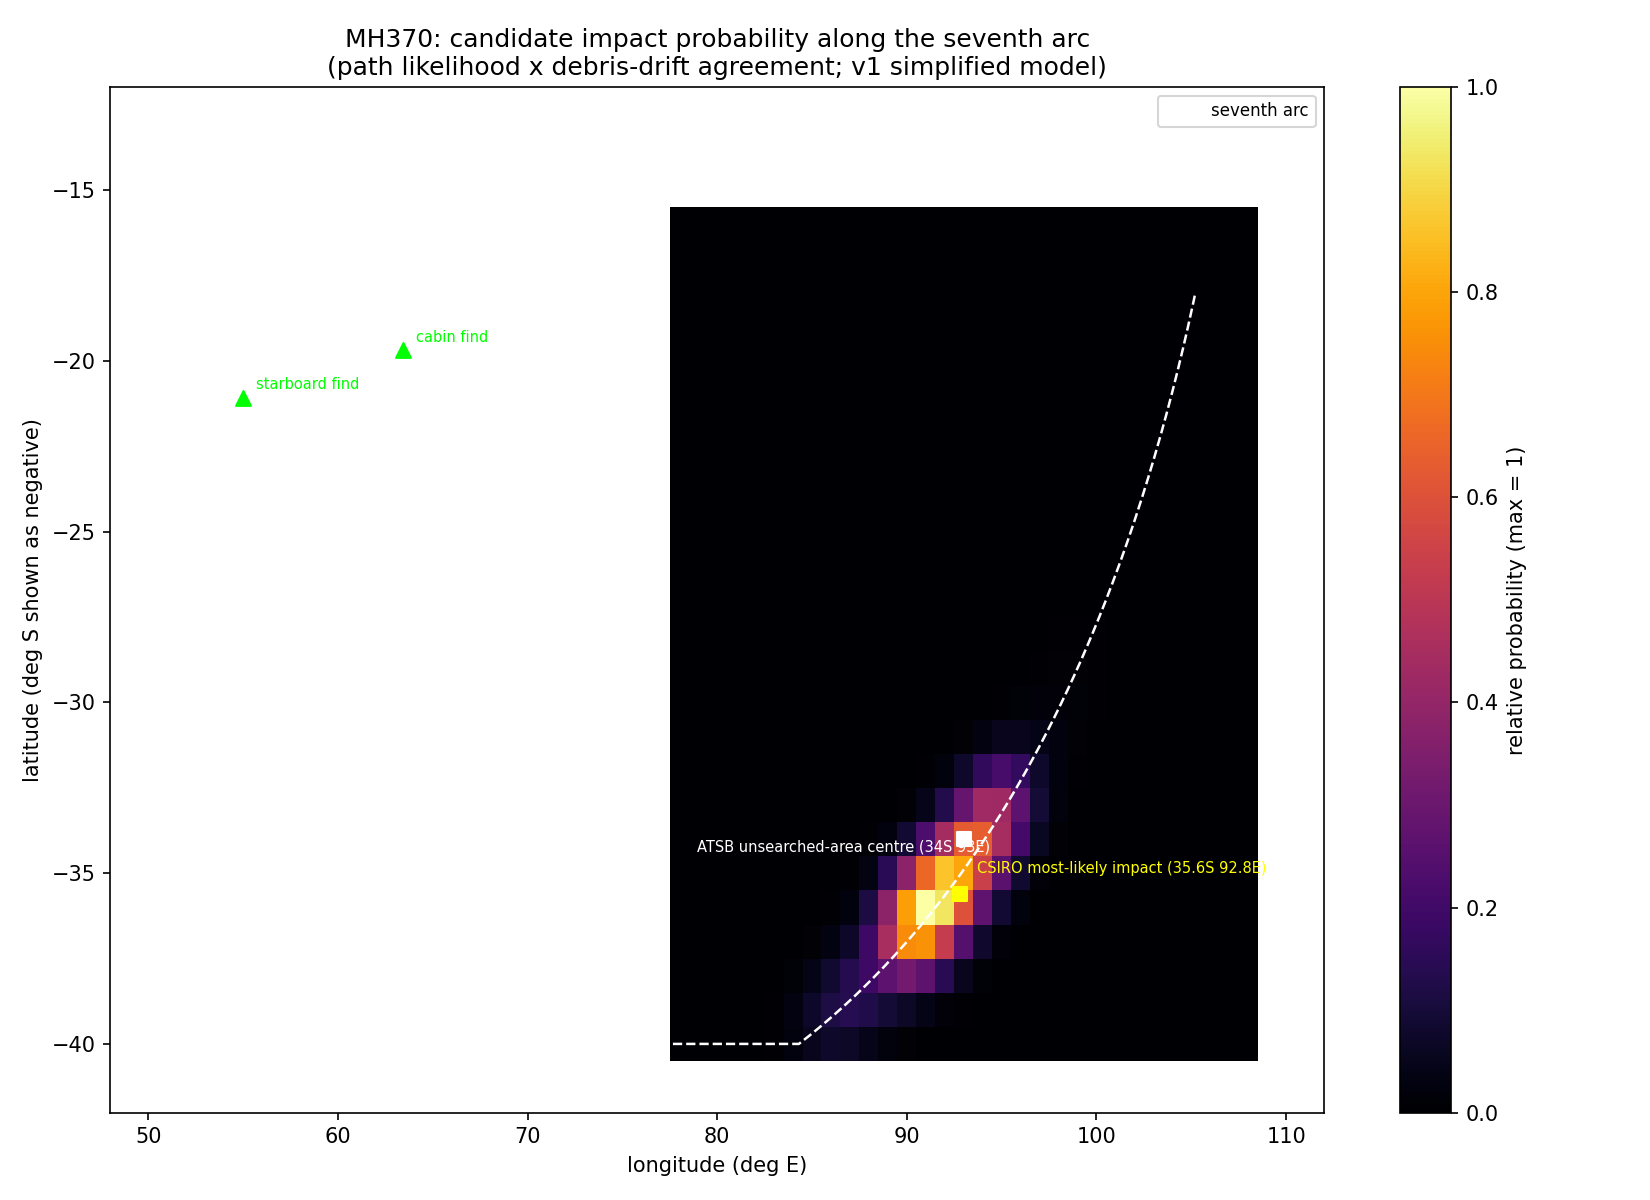
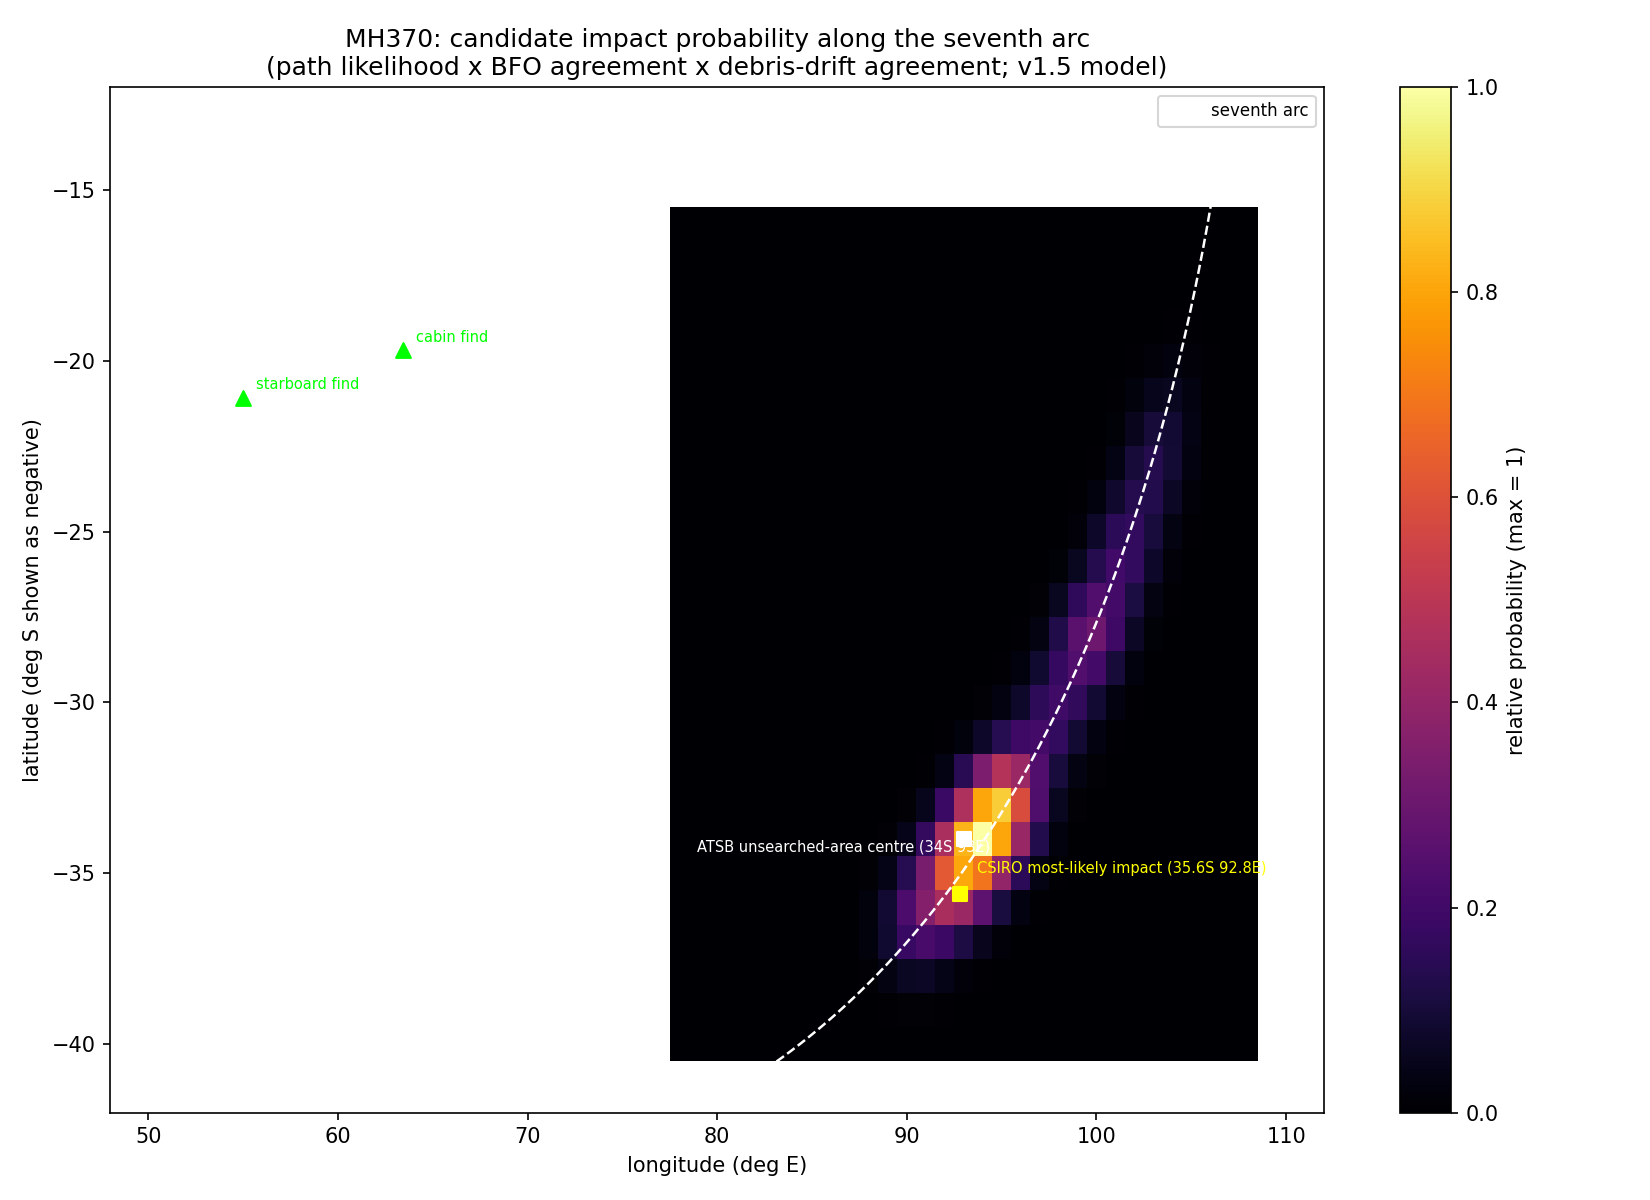
installable package, ci workflow, refreshed readme and heatmap

Changed region(s): [[0.4636, 0.3083, 0.7418, 0.8942], [0.1545, 0.0308, 0.7109, 0.0617]]

diff --git a/src/mh370/__init__.py b/src/mh370/__init__.py
@@ -1,3 +1,3 @@
 """mh370-search: probabilistic search for Flight MH370 from public data."""
 
-__version__ = "0.1.0"
+__version__ = "0.2.0"

diff --git a/tests/test_smoke.py b/tests/test_smoke.py
@@ -2,4 +2,4 @@ import mh370
 
 
 def test_version():
-    assert mh370.__version__ == "0.1.0"
+    assert mh370.__version__ == "0.2.0"

diff --git a/README.md b/README.md
@@ -1,27 +1,32 @@
 # mh370-search
 
-Where is Flight MH370? A probabilistic search of the southern Indian Ocean built from public data: radar fixes, satellite ATOC timestamps, the seventh-arc geometry, and confirmed debris locations.
+Where is Flight MH370? A probabilistic search of the southern Indian Ocean built from public data: radar fixes, satellite ATOC timestamps, the seventh-arc geometry, published BFO values, and confirmed debris locations.
+
+[![tests](https://github.com/pgrinste/mh370-search/actions/workflows/ci.yml/badge.svg)](https://github.com/pgrinste/mh370-search/actions/workflows/ci.yml)
 
 ## What it does
 
-1. Reconstructs the "seventh arc" — the constant-range circle from the 2014-03-09 08:19:54 UTC Inmarsat ping — as a ground circle centred on the Inmarsat-3 F1 sub-satellite point (0, 64.5E), radius fitted to the documented anchor point (34.13S, 93.95E).
-2. Validates that geometry against JACC's published statement that the arc reaches from latitude 20S to 39S (`tests/test_ping_arc.py`).
-3. Samples ~2,000 candidate flight paths from the turn region (Andaman Sea / S China Sea) to points on the arc, keeping only those whose speed and implied meander time are physically plausible given fuel exhaustion at the arc.
-4. Drifts floating debris from each grid cell under a simplified regional current field and scores how well the predicted drift matches where debris actually washed up (Reunion flaperon 2015, Mozambique belly panel 2017, plus probable/unconfirmed finds).
-5. Multiplies path likelihood by drift agreement into a probability heatmap.
+1. Reconstructs the "seventh arc" — the constant-**slant-range** locus from the final ATOC handshake (2014-03-09 00:19:54 UTC = 08:19:54 MYT) as the intersection of a sphere centred on Inmarsat-3 F1 with the WGS84 ellipsoid, fitted to pass through the documented anchor point (34.13S, 93.95E).
+2. Validates that geometry against JACC's published statement that the arc reaches from latitude 20S to 39S (`tests/test_ping_arc.py`), and pins down how much of a ground-circle approximation was error: with both models calibrated on the same anchor they agree to ~10 km over the southern band.
+3. Samples ~2,000 candidate flight paths from the turn region (Andaman Sea / S China Sea) to points on the arc, keeping only those whose speed and implied meander time are physically plausible given fuel exhaustion at the arc (~15.6 h total flight time).
+4. Scores each path against the **published BFO sequence** (arcs 2–6: 111 → 252 Hz) with a lightweight geometric Doppler model — a soft consistency prior, not a full Holland/DSTG decomposition (`src/mh370/bfo.py`).
+5. Drifts floating debris from each grid cell under a simplified regional current field and scores agreement with where debris actually washed up. The field is **calibrated on the Reunion flaperon only**; the Mozambique belly panel (Mar 2017) is held out as validation — its trajectory passes within ~650 nm of the Maputo find location partway through the window, consistent with beaching before discovery.
+6. Multiplies path likelihood × BFO agreement × drift agreement into a probability heatmap.
 
-## Result (v1)
+## Result (v1.5)
 
-The top-scoring cells sit at **35-36S, 91-93E** — within ~1 degree of both the ATSB unsearched-area centre (34S 93E) and CSIRO's final most-likely impact estimate (35.6S 92.8E), using only public data and a deliberately simple model:
+The top-scoring cell sits at **34S, 94E** — essentially on the ATSB unsearched-area centre (34S 93E) and within ~2° of CSIRO's final most-likely impact estimate (35.6S 92.8E), using only public data and a deliberately simple model:
 
 ![probability heatmap](output/mh370_probability_heatmap.png)
+
+Matching those numbers is a sanity check, not an independent discovery — the drift field was calibrated to reach Reunion, so the result carries that prior. The holdout (Mozambique) and BFO checks are what give it any teeth.
 
 ## Layout
 
 ```
 data/curated/   cleaned, documented datasets + data dictionary (committed)
-src/mh370/      package: geodesy, ping arc, flight paths, drift, scoring
-tests/          unit tests incl. the JACC arc-extent validation
+src/mh370/      package: geodesy, ping arc, flight paths, BFO, drift, scoring
+tests/          unit tests incl. JACC arc-extent and holdout-drift validation
 output/         generated heatmap
 ```
 
@@ -29,16 +34,18 @@ output/         generated heatmap
 
 ```bash
 python -m venv .venv
-.venv\Scripts\pip install -r requirements.txt pytest   # Windows; use bin/pip on Linux/macOS
-set PYTHONPATH=src                                      # Windows (or export PYTHONPATH=src)
+.venv\Scripts\pip install -e ".[dev]"        # Windows; use bin/pip on Linux/macOS
 python -m mh370.run_analysis --candidates 2000
-python -m pytest tests/
+pytest tests/
 ```
 
-## Known simplifications (v1)
+(Or the old-fashioned way: `pip install -r requirements.txt` and set `PYTHONPATH=src`.)
 
-- The seventh arc is a ground circle, not the exact constant-slant-range locus to the satellite in space. Good to tens of km for this use; validated against JACC's stated extent.
-- Drift uses a two-region constant current field calibrated so mean drift from the southern arc reaches both confirmed find locations within a few hundred nm over their advection periods. A real model would use reanalysis currents (e.g. CMEMS) and wind-driven leeway per debris type.
-- The zig-zag meander is approximated by a loiter window rather than simulated turn-by-turn.
+## Known simplifications (v1.5)
 
-Full source list and confidence levels: [data/curated/data_dictionary.md](data/curated/data_dictionary.md).
+- **Flight kinematics** are a straight track plus loiter window, not turn-by-turn dynamics with fuel burn. The BFO filter is therefore soft (σ = 60 Hz, residuals re-centred per handshake): our straight-line paths over-predict receding Doppler by several hundred Hz near the arc because real tracks had a stronger westward component.
+- **Drift** uses a two-region constant current field calibrated on Reunion only. A real model would use reanalysis currents (CMEMS GLORYS12V1) with per-debris-type wind leeway — that is the v2 upgrade path, and it is also what would let us distinguish 30S from 35S source cells.
+- **Satellite** treated as fixed at its geostationary slot; orbital drift adds ~±10 Hz to BFO (inside the scoring sigma) and a few km to arc geometry (absorbed by the anchor fit).
+- The path likelihood is essentially uniform along the arc apart from the speed/meander gates — there is no fuel-exhaustion constraint beyond "crossed the arc before running dry".
+
+Full source list, confidence levels, and the MYT/UTC time-base notes: [data/curated/data_dictionary.md](data/curated/data_dictionary.md).
